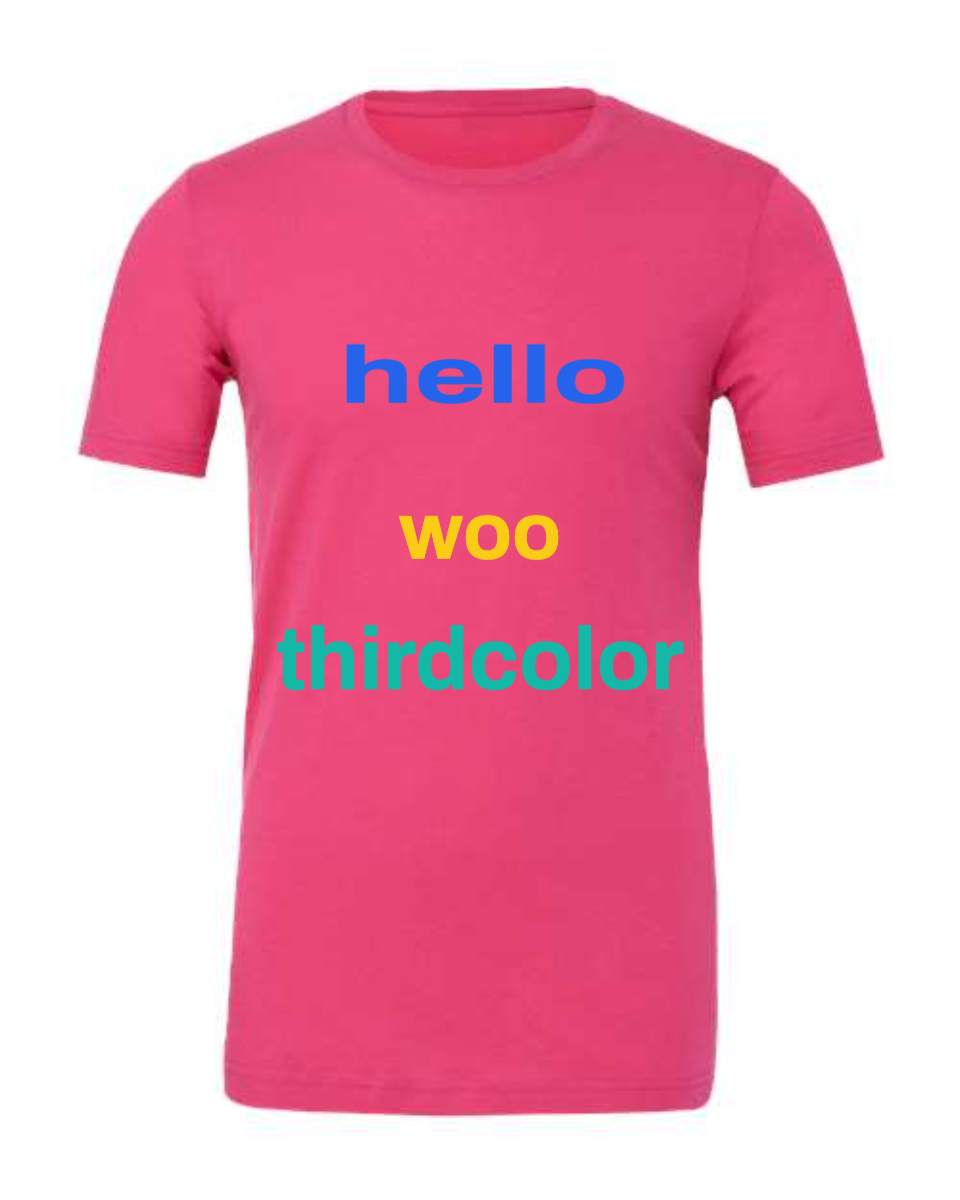
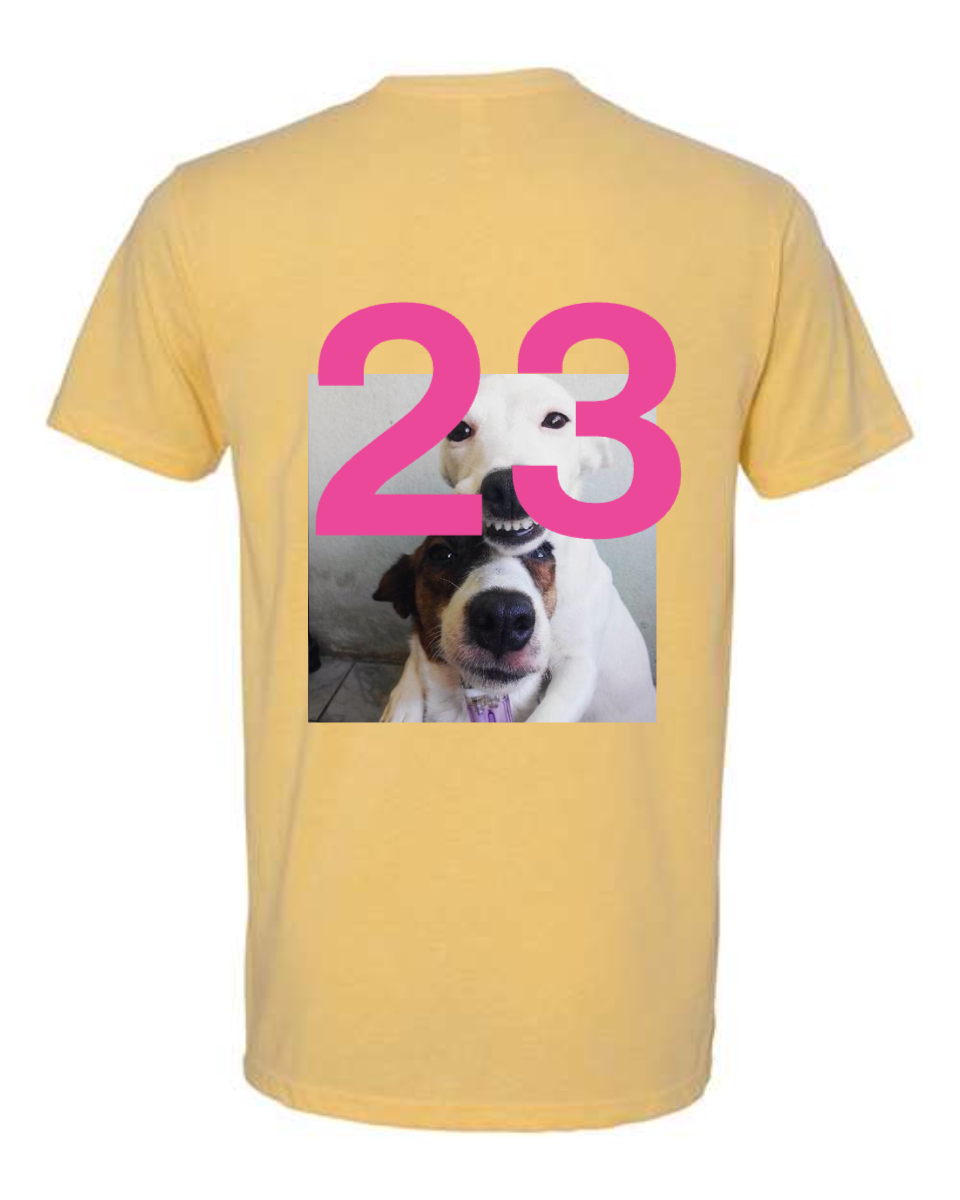
Swap measurement explainer diagram to the order 1006 mockup

diff --git a/src/app/admin/orders/[id]/MeasureHelp.tsx b/src/app/admin/orders/[id]/MeasureHelp.tsx
@@ -37,7 +37,7 @@ export function MeasureHelpDot() {
             <div className="relative mx-auto w-full max-w-sm overflow-hidden rounded-lg border border-dream-line bg-white">
               <Image
                 src="/admin/measure-example.png"
-                alt="Shirt mockup with three lines of text, annotated with the measured bounding box"
+                alt="Shirt mockup with a number overlapping a photo, annotated with the measured bounding box"
                 width={960}
                 height={1200}
                 className="w-full"
@@ -45,34 +45,34 @@ export function MeasureHelpDot() {
               <svg viewBox="0 0 960 1200" className="absolute inset-0 h-full w-full" aria-hidden>
                 {/* Bounding box around ALL elements together */}
                 <rect
-                  x="256"
-                  y="334"
-                  width="448"
-                  height="394"
+                  x="312"
+                  y="290"
+                  width="352"
+                  height="442"
                   fill="none"
                   stroke="#7664ff"
                   strokeWidth="5"
                   strokeDasharray="14 10"
                 />
                 {/* Width arrow under the box */}
-                <line x1="268" y1="790" x2="692" y2="790" stroke="#1b1458" strokeWidth="6" />
-                <path d="M258 790l26 -14v28z" fill="#1b1458" />
-                <path d="M702 790l-26 -14v28z" fill="#1b1458" />
-                <line x1="256" y1="740" x2="256" y2="778" stroke="#1b1458" strokeWidth="4" />
-                <line x1="704" y1="740" x2="704" y2="778" stroke="#1b1458" strokeWidth="4" />
-                <rect x="355" y="814" width="250" height="56" rx="12" fill="#ffffff" stroke="#1b1458" strokeWidth="3" />
-                <text x="480" y="854" textAnchor="middle" fontSize="38" fontWeight="700" fill="#1b1458">
-                  Width 11.7&#8243;
+                <line x1="324" y1="794" x2="652" y2="794" stroke="#1b1458" strokeWidth="6" />
+                <path d="M314 794l26 -14v28z" fill="#1b1458" />
+                <path d="M662 794l-26 -14v28z" fill="#1b1458" />
+                <line x1="312" y1="744" x2="312" y2="782" stroke="#1b1458" strokeWidth="4" />
+                <line x1="664" y1="744" x2="664" y2="782" stroke="#1b1458" strokeWidth="4" />
+                <rect x="363" y="818" width="250" height="56" rx="12" fill="#ffffff" stroke="#1b1458" strokeWidth="3" />
+                <text x="488" y="858" textAnchor="middle" fontSize="38" fontWeight="700" fill="#1b1458">
+                  Width 11.6&#8243;
                 </text>
                 {/* Height arrow beside the box */}
-                <line x1="766" y1="346" x2="766" y2="716" stroke="#1b1458" strokeWidth="6" />
-                <path d="M766 336l-14 26h28z" fill="#1b1458" />
-                <path d="M766 726l-14 -26h28z" fill="#1b1458" />
-                <line x1="716" y1="334" x2="754" y2="334" stroke="#1b1458" strokeWidth="4" />
-                <line x1="716" y1="728" x2="754" y2="728" stroke="#1b1458" strokeWidth="4" />
-                <rect x="640" y="500" width="260" height="56" rx="12" fill="#ffffff" stroke="#1b1458" strokeWidth="3" />
-                <text x="770" y="540" textAnchor="middle" fontSize="38" fontWeight="700" fill="#1b1458">
-                  Height 10.8&#8243;
+                <line x1="726" y1="302" x2="726" y2="720" stroke="#1b1458" strokeWidth="6" />
+                <path d="M726 292l-14 26h28z" fill="#1b1458" />
+                <path d="M726 730l-14 -26h28z" fill="#1b1458" />
+                <line x1="676" y1="290" x2="714" y2="290" stroke="#1b1458" strokeWidth="4" />
+                <line x1="676" y1="732" x2="714" y2="732" stroke="#1b1458" strokeWidth="4" />
+                <rect x="600" y="482" width="260" height="56" rx="12" fill="#ffffff" stroke="#1b1458" strokeWidth="3" />
+                <text x="730" y="522" textAnchor="middle" fontSize="38" fontWeight="700" fill="#1b1458">
+                  Height 13.9&#8243;
                 </text>
               </svg>
             </div>
@@ -81,9 +81,9 @@ export function MeasureHelpDot() {
               <p>
                 <strong className="font-semibold">One box around everything on that side.</strong>{" "}
                 Width runs from the leftmost edge of any element to the rightmost edge; height runs
-                from the highest point to the lowest. In this example the three lines of text
-                measure together as one 11.7&#8243; &#215; 10.8&#8243; print, even though each line
-                is smaller on its own. A rotated element counts by its tilted footprint.
+                from the highest point to the lowest. In this example the number and the photo
+                measure together as one 11.6&#8243; &#215; 13.9&#8243; print, even though each
+                element is smaller on its own. A rotated element counts by its tilted footprint.
               </p>
               <p>
                 <strong className="font-semibold">It is not the print area.</strong> The printable
